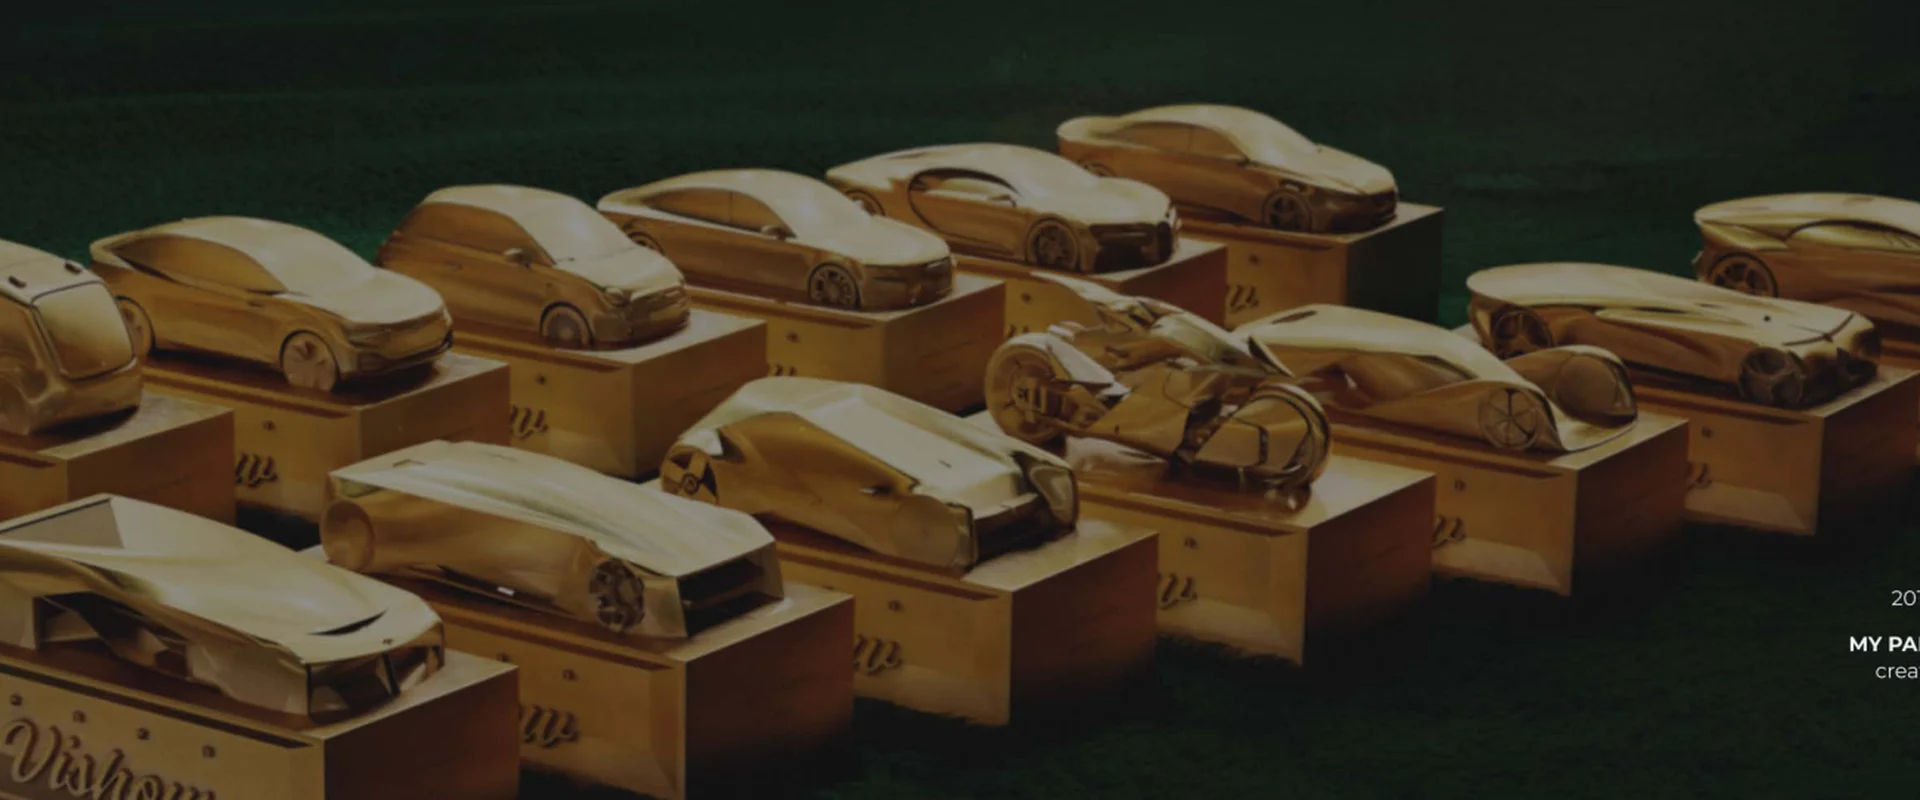
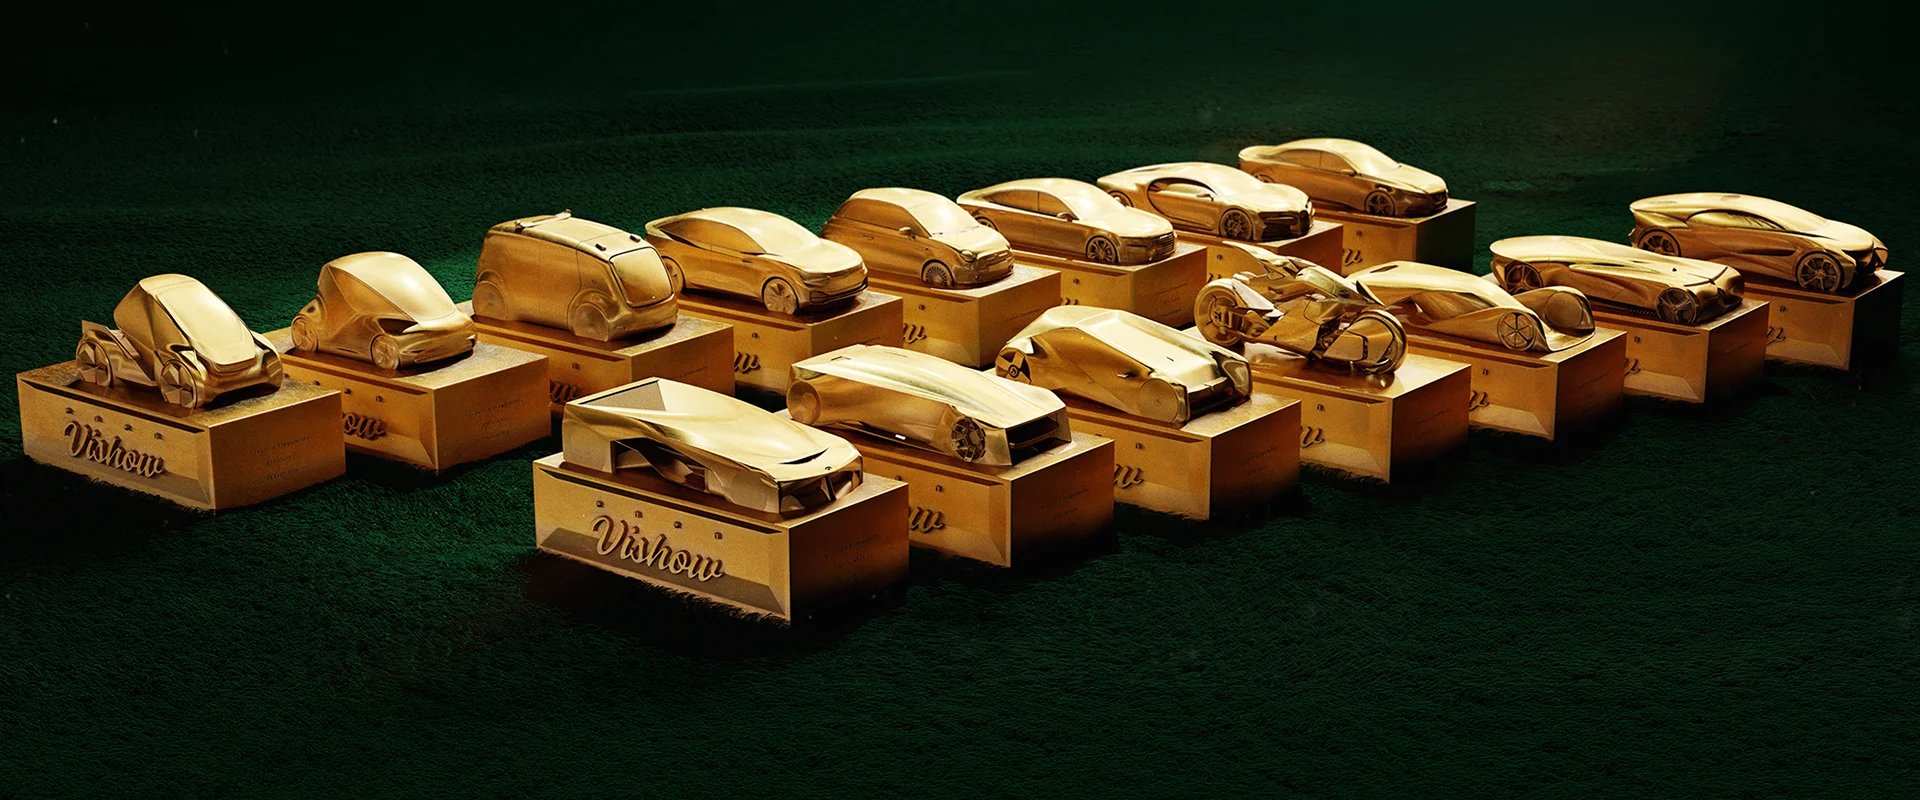
drafts: VISHOW and NIVA list tiles from the previous Adobe site

diff --git a/drafts/1113-site/work.html b/drafts/1113-site/work.html
@@ -37,7 +37,7 @@
   </li>
   <li>
     <p class="tag"><i>06</i><b>Nike NIVA</b> / 2020</p>
-    <a href="p/niva.html" aria-label="Nike NIVA / 2020"><img class="fx" src="https://songfamhome.synology.me/portfolio2026/niva/01-helmet@1280.webp" srcset="https://songfamhome.synology.me/portfolio2026/niva/01-helmet@1280.webp 1280w, https://songfamhome.synology.me/portfolio2026/niva/01-helmet-sharp-20261115k@2560.webp 2560w, https://songfamhome.synology.me/portfolio2026/niva/01-helmet-sharp-20261115k@3840.webp 3840w" sizes="(max-width:760px) calc(100.00000vw - 32.00000px), min(calc(100.00000vw - 32.00000px), max(calc(78.00000vw - 0.00000px), 980.00000px))" width="2560" height="1440" alt="Close-up of the NIVA helmet, a dark visor over a face and a white collar" style="object-position:50% 50%" loading="lazy"><span class="nm"><b>Nike NIVA</b><i>/ 2020</i><em>view project</em></span></a>
+    <a href="p/niva.html" aria-label="Nike NIVA / 2020"><img class="fx" src="tiles/niva.webp" alt="" width="1920" height="800" style="object-fit:cover"><span class="nm"><b>Nike NIVA</b><i>/ 2020</i><em>view project</em></span></a>
   </li>
 </ol>
 <p class="end"><a href="index.html">home page</a><a href="index.html#about">about</a></p>
